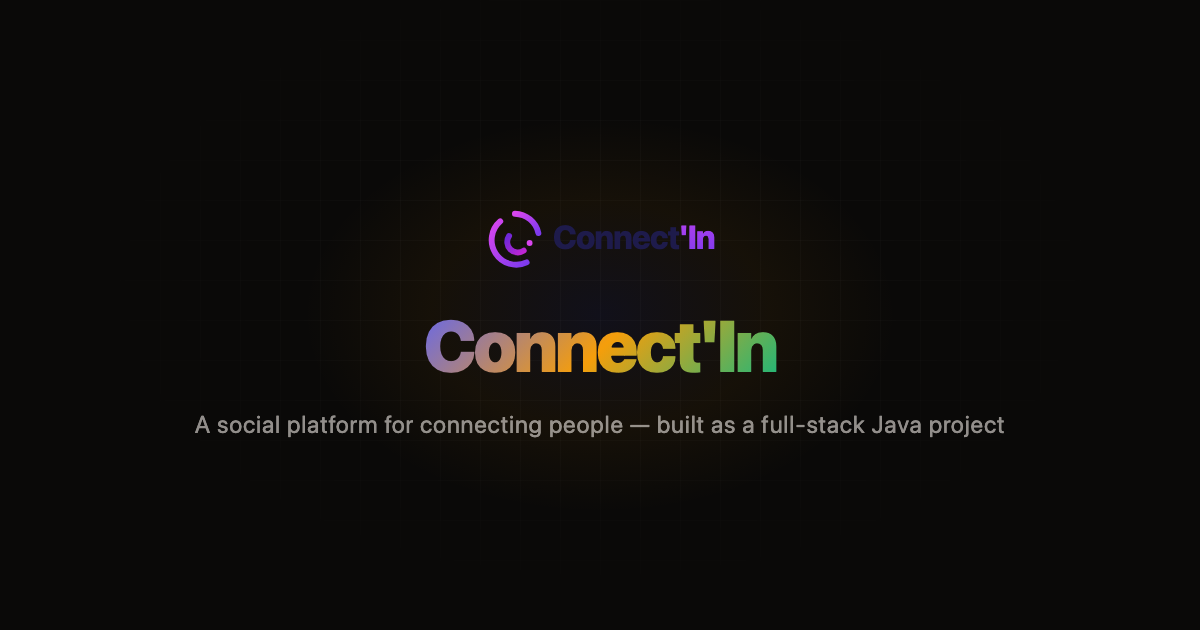
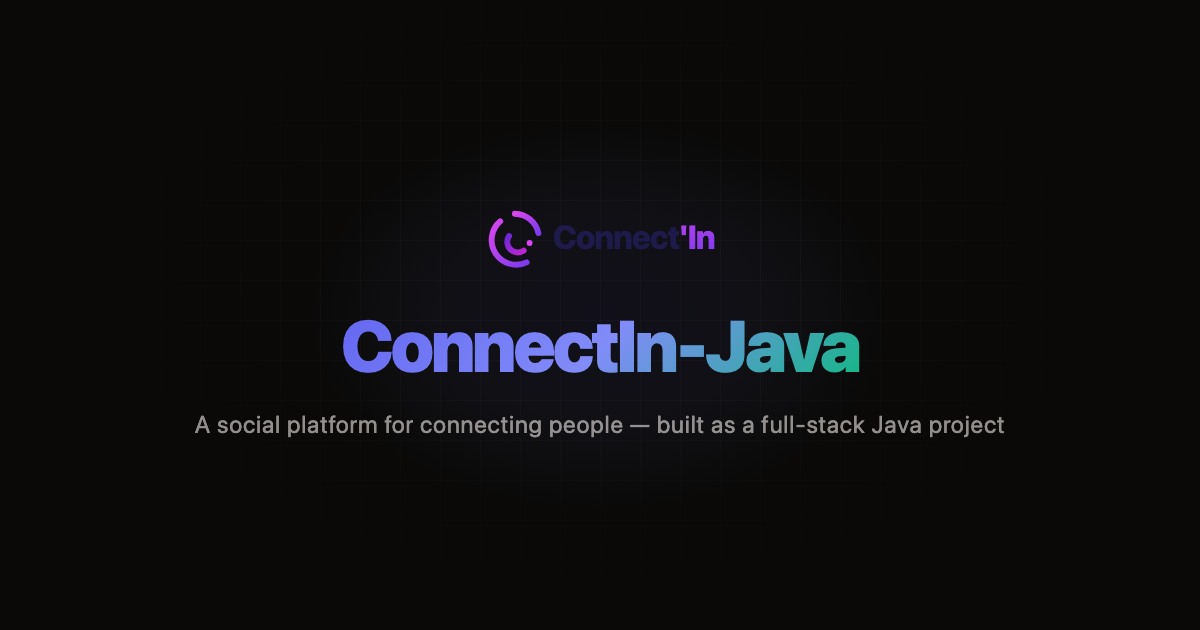
fix(og): correct project name to ConnectIn-Java, replace yellow secondary with violet

Changed region(s): [[0.2775, 0.4825, 0.74, 0.6032]]

diff --git a/docs/index.html b/docs/index.html
@@ -6,17 +6,17 @@
 <link rel="preconnect" href="https://fonts.gstatic.com" crossorigin>
 <link href="https://fonts.googleapis.com/css2?family=Inter:wght@400;500;600;700&family=Space+Grotesk:wght@500;600;700&family=JetBrains+Mono:wght@400;500&display=swap" rel="stylesheet">
 <meta name="viewport" content="width=device-width, initial-scale=1.0">
-<title>Connect'In</title>
+<title>ConnectIn-Java</title>
 <meta name="description" content="Connect'In v2 — A social platform built with Spring Boot and Vue.js">
 <meta name="theme-color" content="#0a0908">
-<meta property="og:title" content="Connect'In">
+<meta property="og:title" content="ConnectIn-Java">
 <meta property="og:description" content="Connect'In v2 — A social platform built with Spring Boot and Vue.js">
 <meta property="og:type" content="website">
 <meta property="og:image" content="assets/og-image.png">
 <meta property="og:image:width" content="1200">
 <meta property="og:image:height" content="630">
 <meta name="twitter:card" content="summary_large_image">
-<meta name="twitter:title" content="Connect'In">
+<meta name="twitter:title" content="ConnectIn-Java">
 <meta name="twitter:description" content="Connect'In v2 — A social platform built with Spring Boot and Vue.js">
 <meta name="twitter:image" content="assets/og-image.png">
 
@@ -76,7 +76,7 @@ tailwind.config = {
 
   /* Accents */
   --primary: #6366f1;
-  --secondary: #f59e0b;
+  --secondary: #818cf8;
   --accent: #10b981;
 
   --primary-dim: color-mix(in srgb, var(--primary) 20%, transparent);
@@ -183,7 +183,7 @@ a:active, button:active { transform: scale(0.97); transition: transform 0.1s eas
 }
 
 .radial-1 { background: radial-gradient(ellipse 80% 60% at 20% 0%, rgba(99,102,241,0.08) 0%, transparent 60%); opacity: 0.5; }
-.radial-2 { background: radial-gradient(ellipse 60% 50% at 85% 100%, rgba(245,158,11,0.05) 0%, transparent 60%); opacity: 0.5; }
+.radial-2 { background: radial-gradient(ellipse 60% 50% at 85% 100%, rgba(129,140,248,0.05) 0%, transparent 60%); opacity: 0.5; }
 
 #back-to-top {
   position: fixed; bottom: 32px; right: 32px; z-index: 50;
@@ -234,7 +234,7 @@ a:active, button:active { transform: scale(0.97); transition: transform 0.1s eas
       <div class="text-text group-hover:scale-110 transition-transform duration-300 drop-shadow-md">
         <img src="assets/logo.svg" alt="Logo" class="w-10 h-10 rounded-lg">
       </div>
-      <span class="font-bold text-[16px] whitespace-nowrap text-text group-hover:text-transparent group-hover:bg-clip-text group-hover:bg-gradient-to-r group-hover:from-primary group-hover:to-accent transition-all">Connect'In</span>
+      <span class="font-bold text-[16px] whitespace-nowrap text-text group-hover:text-transparent group-hover:bg-clip-text group-hover:bg-gradient-to-r group-hover:from-primary group-hover:to-accent transition-all">ConnectIn-Java</span>
     </a>
 
     <div class="flex items-center gap-3 flex-shrink-0">
@@ -271,7 +271,7 @@ a:active, button:active { transform: scale(0.97); transition: transform 0.1s eas
       </div>
 
       <h1 class="headline text-5xl md:text-7xl lg:text-8xl font-extrabold leading-[1.15] mb-8 max-w-4xl text-gradient">
-        Connect'In
+        ConnectIn-Java
       </h1>
 
       <p class="text-muted text-lg md:text-xl max-w-2xl leading-relaxed mb-12 font-medium">
@@ -507,7 +507,7 @@ a:active, button:active { transform: scale(0.97); transition: transform 0.1s eas
   <div class="w-full max-w-container mx-auto flex flex-col md:flex-row items-center justify-between gap-3">
     <div class="flex flex-col items-center md:items-start gap-1 text-xs text-muted">
       <div class="font-semibold text-text">
-        Connect'In
+        ConnectIn-Java
       </div>
       <div>MIT License &copy; 2026 Sofian</div>
     </div>
